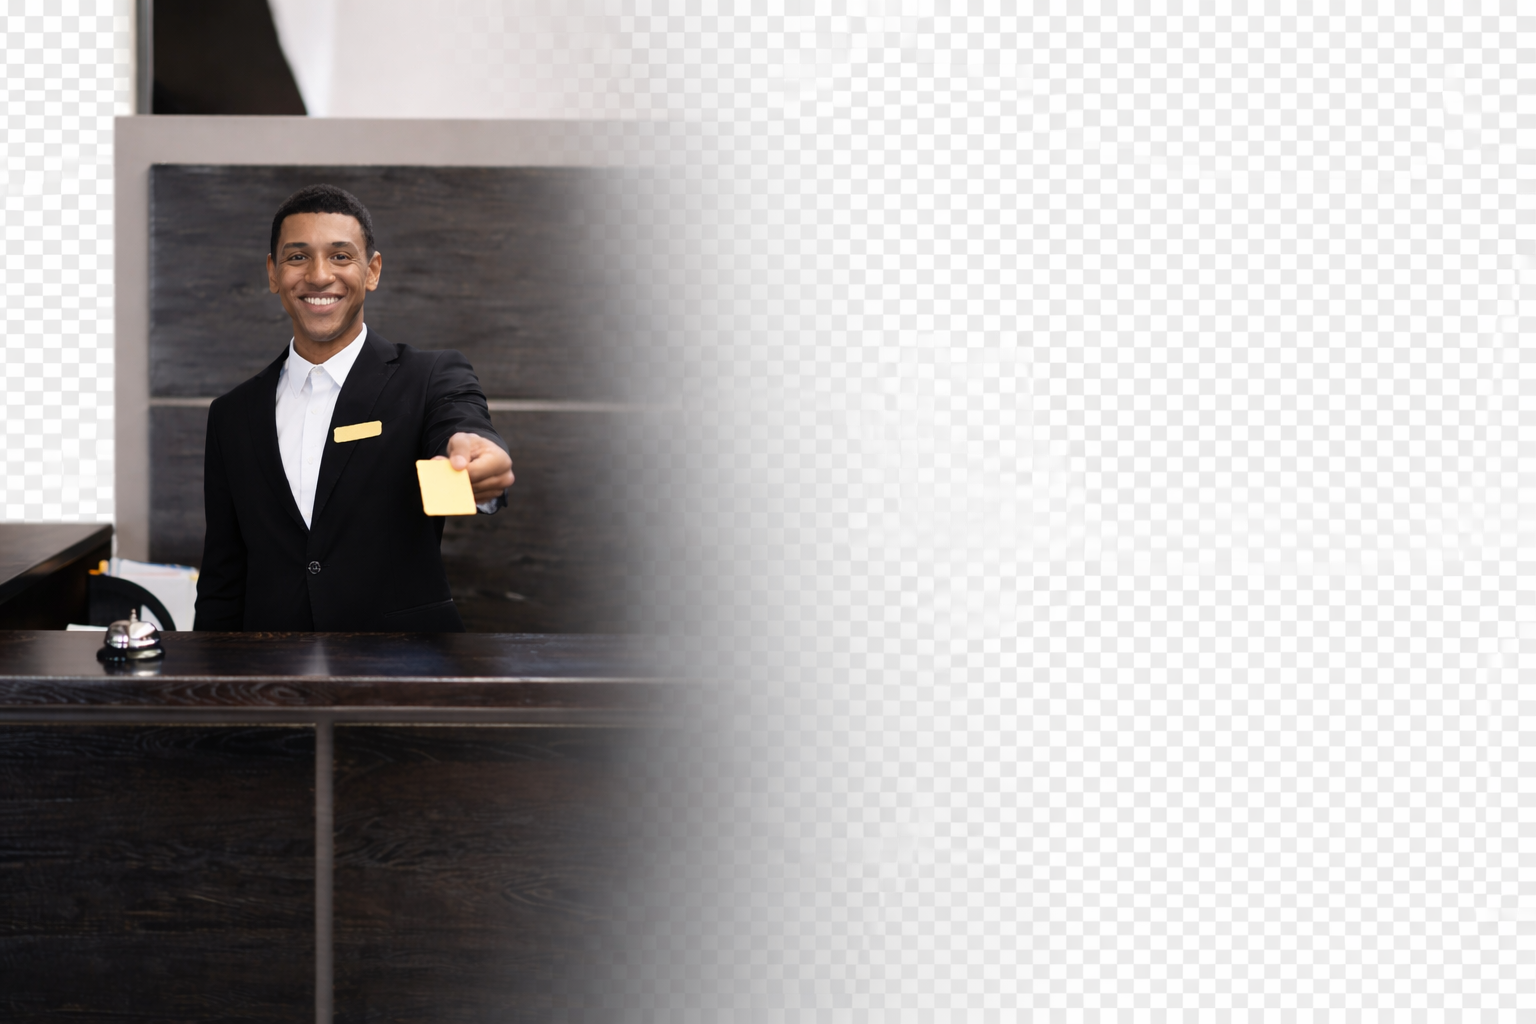
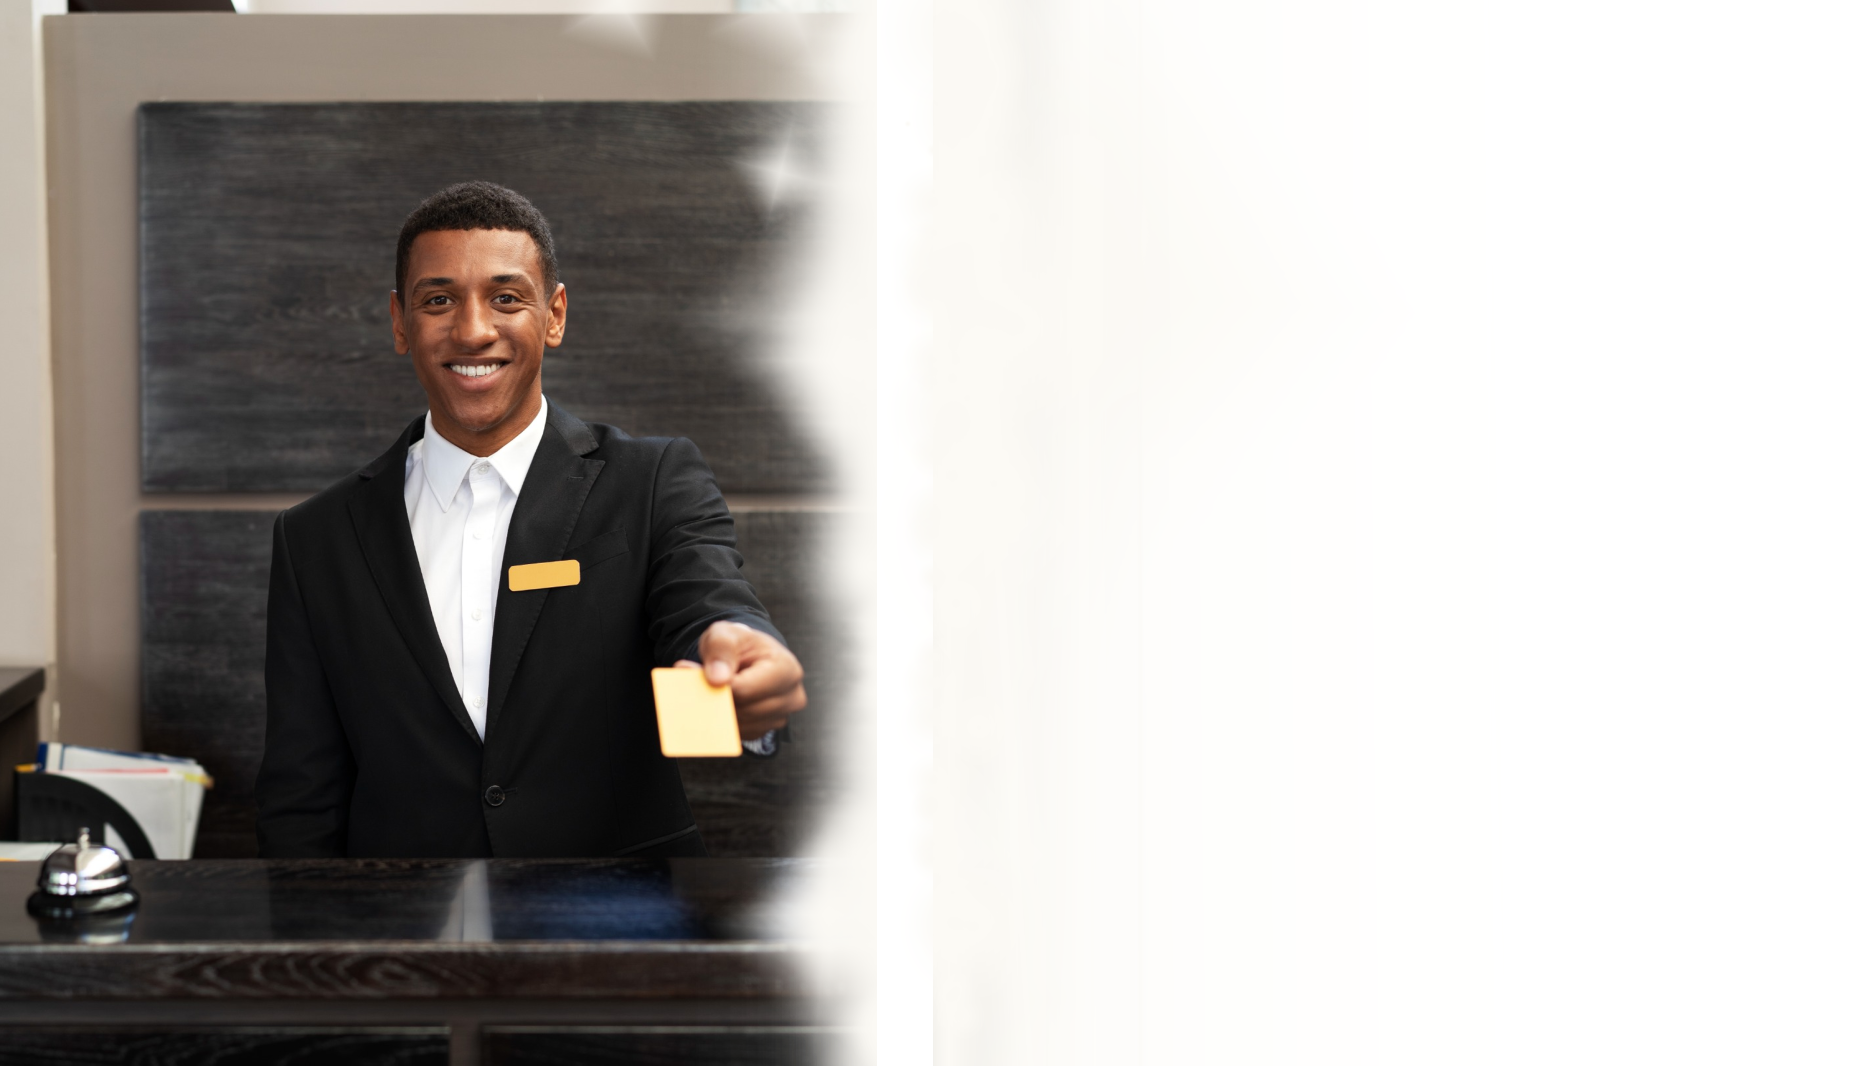
first commit

diff --git a/assets/css/style.css b/assets/css/style.css
@@ -7782,7 +7782,7 @@ header.header--sticky.sticky .nav-area ul li.main-nav {
 
 /* elements  */
 .banner-style-one {
-  background-image: url(../images/banner/finO.webp);
+  background-image: url(../images/banner/001.webp);
   height: 850px;
   position: relative;
   z-index: 1;

diff --git a/assets/scss/elements/_banner.scss b/assets/scss/elements/_banner.scss
@@ -1,5 +1,5 @@
 .banner-style-one {
-    background-image: url(../images/banner/finO.webp);
+    background-image: url(../images/banner/001.webp);
     height: 850px;
     position: relative;
     z-index: 1;
